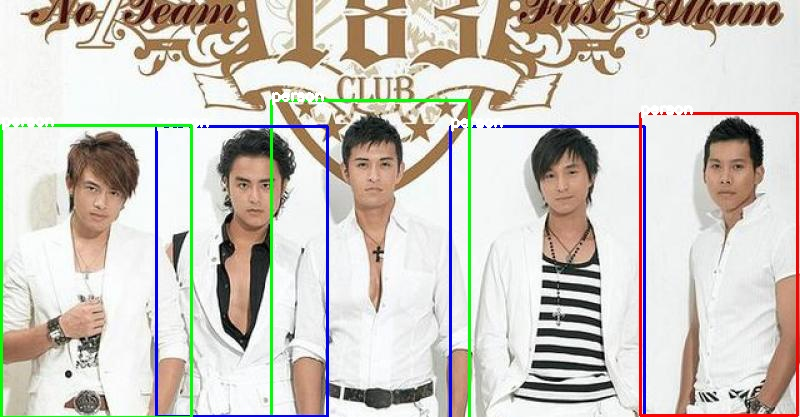
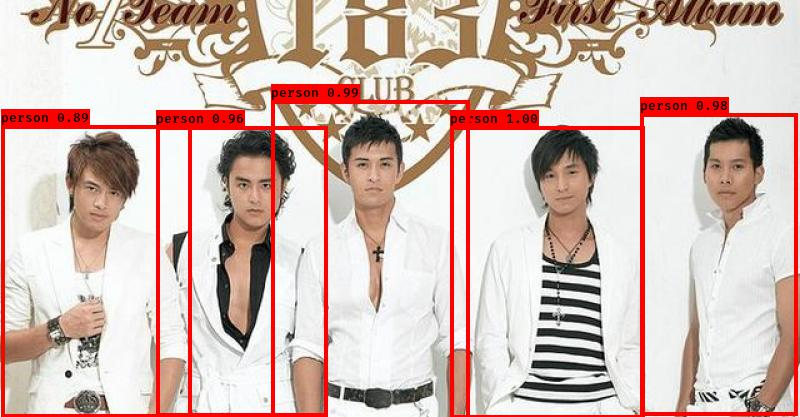
bug fix for witness

Changed region(s): [[0.0, 0.1871, 1.0, 1.0]]

diff --git a/naive_detector.py b/naive_detector.py
@@ -1,16 +1,26 @@
 import argparse
-
-import torch
 import cv2
+import torch
 import numpy as np
+from collections import OrderedDict
+from typing import Union
+
 import torch.backends.cudnn as cudnn
+from eyewitness.detection_utils import DetectionResult
+from eyewitness.image_id import ImageId
+from eyewitness.object_detector import ObjectDetector
+from eyewitness.image_utils import ImageHandler
 from torch.autograd import Variable
 from PIL import Image
 
-from demo.live import ObjectDetector
+import models
+from utils.timer import Timer
+from utils.nms.py_cpu_nms import py_cpu_nms
 from data import BaseTransform, VOC_300, VOC_512, COCO_300, COCO_512, COCO_mobile_300
 from data import VOC_CLASSES as labelmap
 from layers.functions import Detect, PriorBox
+
+
 
 parser = argparse.ArgumentParser(description='Receptive Field Block Net Training')
 parser.add_argument('-s', '--size', default='300', help='300 or 512 input size.')
@@ -24,90 +34,149 @@ parser.add_argument('--cuda', default=False, type=bool,
 args = parser.parse_args()
 
 
+BUILD_NET_METHOD = {
+    'RFB_vgg': models.RFB_Net_vgg.build_net,
+    'FSSD_vgg': models.FSSD_vgg.build_net,
+}
+
+class PytorchDetectorWrapper(ObjectDetector):
+    def __init__(
+            self, cfg, size, dataset, model_ver, weight_path,
+            cuda=False, max_per_image=300, thresh=0.5):
+
+        img_dim = (300, 512)[size == '512']
+        num_classes = (21, 81)[dataset == 'COCO']
+        self.net = self.create_net(img_dim, num_classes, model_ver, weight_path)
+
+        priorbox = PriorBox(cfg)
+        self.priors = Variable(priorbox.forward(), volatile=True)
+        self.detection = Detect(num_classes, 0, cfg)
+
+        rgb_means = ((104, 117, 123), (103.94, 116.78, 123.68))[model_ver == 'RFB_mobile']
+        rgb_std = (1, 1, 1)
+        transform = BaseTransform(self.net.size, rgb_means, rgb_std, (2, 0, 1))
+        self.transform = transform
+        self.num_classes = num_classes
+        self.max_per_image = max_per_image
+        self.cuda = cuda
+        self.thresh = thresh
+        if not self.cuda:
+            self.priors = self.priors.cpu()
+            self.net = self.net.cpu()
+
+    def load_weights(self, weight_path):
+        # load network
+        print('Loading network weihgt from: %s' % (weight_path))
+        state_dict = torch.load(weight_path)
+        # create new OrderedDict that does not contain `module.`
+
+        new_state_dict = OrderedDict()
+        for k, v in state_dict.items():
+            head = k[:7]
+            if head == 'module.':
+                name = k[7:]  # remove `module.`
+            else:
+                name = k
+            if k.startswith('base.'):
+                name = k.replace('base.', 'base.layers.')
+            new_state_dict[name] = v
+        return new_state_dict
+        
+    def create_net(self, img_dim, num_classes, model_ver, weight_path):
+        assert model_ver in BUILD_NET_METHOD
+        build_net = BUILD_NET_METHOD[model_ver]
+        net = build_net(img_dim, num_classes)
+        new_state_dict = self.load_weights(weight_path)
+        net.load_state_dict(new_state_dict)
+        net.eval()
+        print('Finished loading model!')
+        print(net)
+        return net
+
+    def predict(self, img):
+        scale = torch.Tensor([img.shape[1], img.shape[0],
+                              img.shape[1], img.shape[0]]).cpu().numpy()
+        _t = {'im_detect': Timer(), 'misc': Timer()}
+        assert img.shape[2] == 3
+        x = Variable(self.transform(img).unsqueeze(0), volatile=True).cpu()
+        if self.cuda:
+            x = x.cuda()
+        _t['im_detect'].tic()
+        out = self.net(x, test=True)  # forward pass
+        boxes, scores = self.detection.forward(out, self.priors)
+        detect_time = _t['im_detect'].toc()
+        boxes = boxes[0]
+        scores = scores[0]
+
+        boxes = boxes.cpu().numpy()
+        scores = scores.cpu().numpy()
+        # scale each detection back up to the image
+        boxes *= scale
+        _t['misc'].tic()
+        all_boxes = [[] for _ in range(self.num_classes)]
+
+        for j in range(1, self.num_classes):
+            inds = np.where(scores[:, j] > self.thresh)[0]
+            if len(inds) == 0:
+                all_boxes[j] = np.zeros([0, 5], dtype=np.float32)
+                continue
+            c_bboxes = boxes[inds]
+            c_scores = scores[inds, j]
+            print(scores[:, j])
+            c_dets = np.hstack((c_bboxes, c_scores[:, np.newaxis])).astype(
+                np.float32, copy=False)
+            # keep = nms(c_bboxes,c_scores)
+
+            keep = py_cpu_nms(c_dets, 0.45)
+            keep = keep[:50]
+            c_dets = c_dets[keep, :]
+            all_boxes[j] = c_dets
+        if self.max_per_image > 0:
+            image_scores = np.hstack([all_boxes[j][:, -1] for j in range(1, self.num_classes)])
+            if len(image_scores) > self.max_per_image:
+                image_thresh = np.sort(image_scores)[-self.max_per_image]
+                for j in range(1, self.num_classes):
+                    keep = np.where(all_boxes[j][:, -1] >= image_thresh)[0]
+                    all_boxes[j] = all_boxes[j][keep, :]
+
+        nms_time = _t['misc'].toc()
+        print('net time: ', detect_time)
+        print('post time: ', nms_time)
+        return all_boxes
+
+    def detect(self, image: Image, image_id: Union[str, ImageId]) -> DetectionResult:
+        image_array = np.array(image)
+        image_array = cv2.cvtColor(image_array, cv2.COLOR_BGR2RGB)
+        detect_bboxes = self.predict(image_array)
+
+        detected_objects = []
+        for class_id, class_collection in enumerate(detect_bboxes):
+            if len(class_collection) > 0:
+                for i in range(class_collection.shape[0]):
+                    label = labelmap[class_id]
+                    x1, y1, x2, y2, score = class_collection[i]
+                    if score > 0.6:
+                        detected_objects.append([x1, y1, x2, y2, label, score, ''])
+
+        image_dict = {
+            'image_id': image_id,
+            'detected_objects': detected_objects,
+        }
+        detection_result = DetectionResult(image_dict)
+        return detection_result
+        
 
 if __name__ == '__main__':
-
     # get cfg 
     if args.dataset == 'VOC':
         cfg = (VOC_300, VOC_512)[args.size == '512']
     else:
         cfg = (COCO_300, COCO_512)[args.size == '512']
 
-    # get model generator
-    if args.version == 'RFB_vgg':
-        from models.RFB_Net_vgg import build_net
-    elif args.version == 'RFB_mobile':
-        from models.RFB_Net_mobile import build_net
-        cfg = COCO_mobile_300
-    elif args.version == 'SSD_vgg':
-        from models.SSD_vgg import build_net
-    elif args.version == 'FSSD_vgg':
-        from models.FSSD_vgg import build_net
-    elif args.version == 'FRFBSSD_vgg':
-        from models.FRFBSSD_vgg import build_net
-    else:
-        print('Unkown version!')
+    object_detector = PytorchDetectorWrapper(
+        cfg, args.size, args.dataset, args.version, args.basenet, cuda=args.cuda)
 
-
-    priorbox = PriorBox(cfg)
-    priors = Variable(priorbox.forward(), volatile=True)
-
-    img_dim = (300, 512)[args.size == '512']
-    num_classes = (21, 81)[args.dataset == 'COCO']
-    net = build_net(img_dim, num_classes)
-
-    # load resume network
-    resume_net_path = args.basenet
-    print('Loading resume network: %s' % (resume_net_path))
-    state_dict = torch.load(resume_net_path)
-    # create new OrderedDict that does not contain `module.`
-    from collections import OrderedDict
-
-    new_state_dict = OrderedDict()
-    for k, v in state_dict.items():
-        head = k[:7]
-        if head == 'module.':
-            name = k[7:]  # remove `module.`
-        else:
-            name = k
-        if k.startswith('base.'):
-            name = k.replace('base.', 'base.layers.')
-        new_state_dict[name] = v
-    net.load_state_dict(new_state_dict)
-    net.eval()
-    print('Finished loading model!')
-    print(net)
-    # load data
-    if args.cuda:
-        print("use cuda")
-        net = net.cuda()
-        priors = priors.cuda()
-        cudnn.benchmark = True
-    else:
-        priors = priors.cpu()
-        net = net.cpu()
-
-    detector = Detect(num_classes, 0, cfg)
-    rgb_means = ((104, 117, 123), (103.94, 116.78, 123.68))[args.version == 'RFB_mobile']
-    rgb_std = (1, 1, 1)
-    transform = BaseTransform(net.size, rgb_means, rgb_std, (2, 0, 1))
-    object_detector = ObjectDetector(net, detector, transform, cuda=args.cuda, priors=priors)
-    image = np.array(Image.open('demo/test_image.jpg'))
-    image = cv2.cvtColor(image, cv2.COLOR_BGR2RGB)
-    
-    COLORS = [(255, 0, 0), (0, 255, 0), (0, 0, 255)]
-    FONT = cv2.FONT_HERSHEY_SIMPLEX
-    detect_bboxes = object_detector.predict(image)
-    for class_id, class_collection in enumerate(detect_bboxes):
-        if len(class_collection) > 0:
-            for i in range(class_collection.shape[0]):
-                if class_collection[i, -1] > 0.6:
-                    pt = class_collection[i]
-                    cv2.rectangle(image, (int(pt[0]), int(pt[1])), (int(pt[2]),
-                                                                    int(pt[3])), COLORS[i % 3], 2)
-                    cv2.putText(image, labelmap[class_id], (int(pt[0]), int(pt[1])), FONT,
-                                0.5, (255, 255, 255), 2)
-    cv2.imwrite('5566.jpg', image)
-
-
-
+    image = Image.open('demo/test_image.jpg')
+    detection_result = object_detector.detect(image, './5566.jpg')
+    ImageHandler.draw_bbox(image, detection_result.detected_objects)
+    ImageHandler.save(image, detection_result.image_id)

diff --git a/utils/box_utils.py b/utils/box_utils.py
@@ -235,7 +235,6 @@ def decode(loc, priors, variances):
     Return:
         decoded bounding box predictions
     """
-
     boxes = torch.cat((
         priors[:, :2] + loc[:, :2] * variances[0] * priors[:, 2:],
         priors[:, 2:] * torch.exp(loc[:, 2:] * variances[1])), 1)
